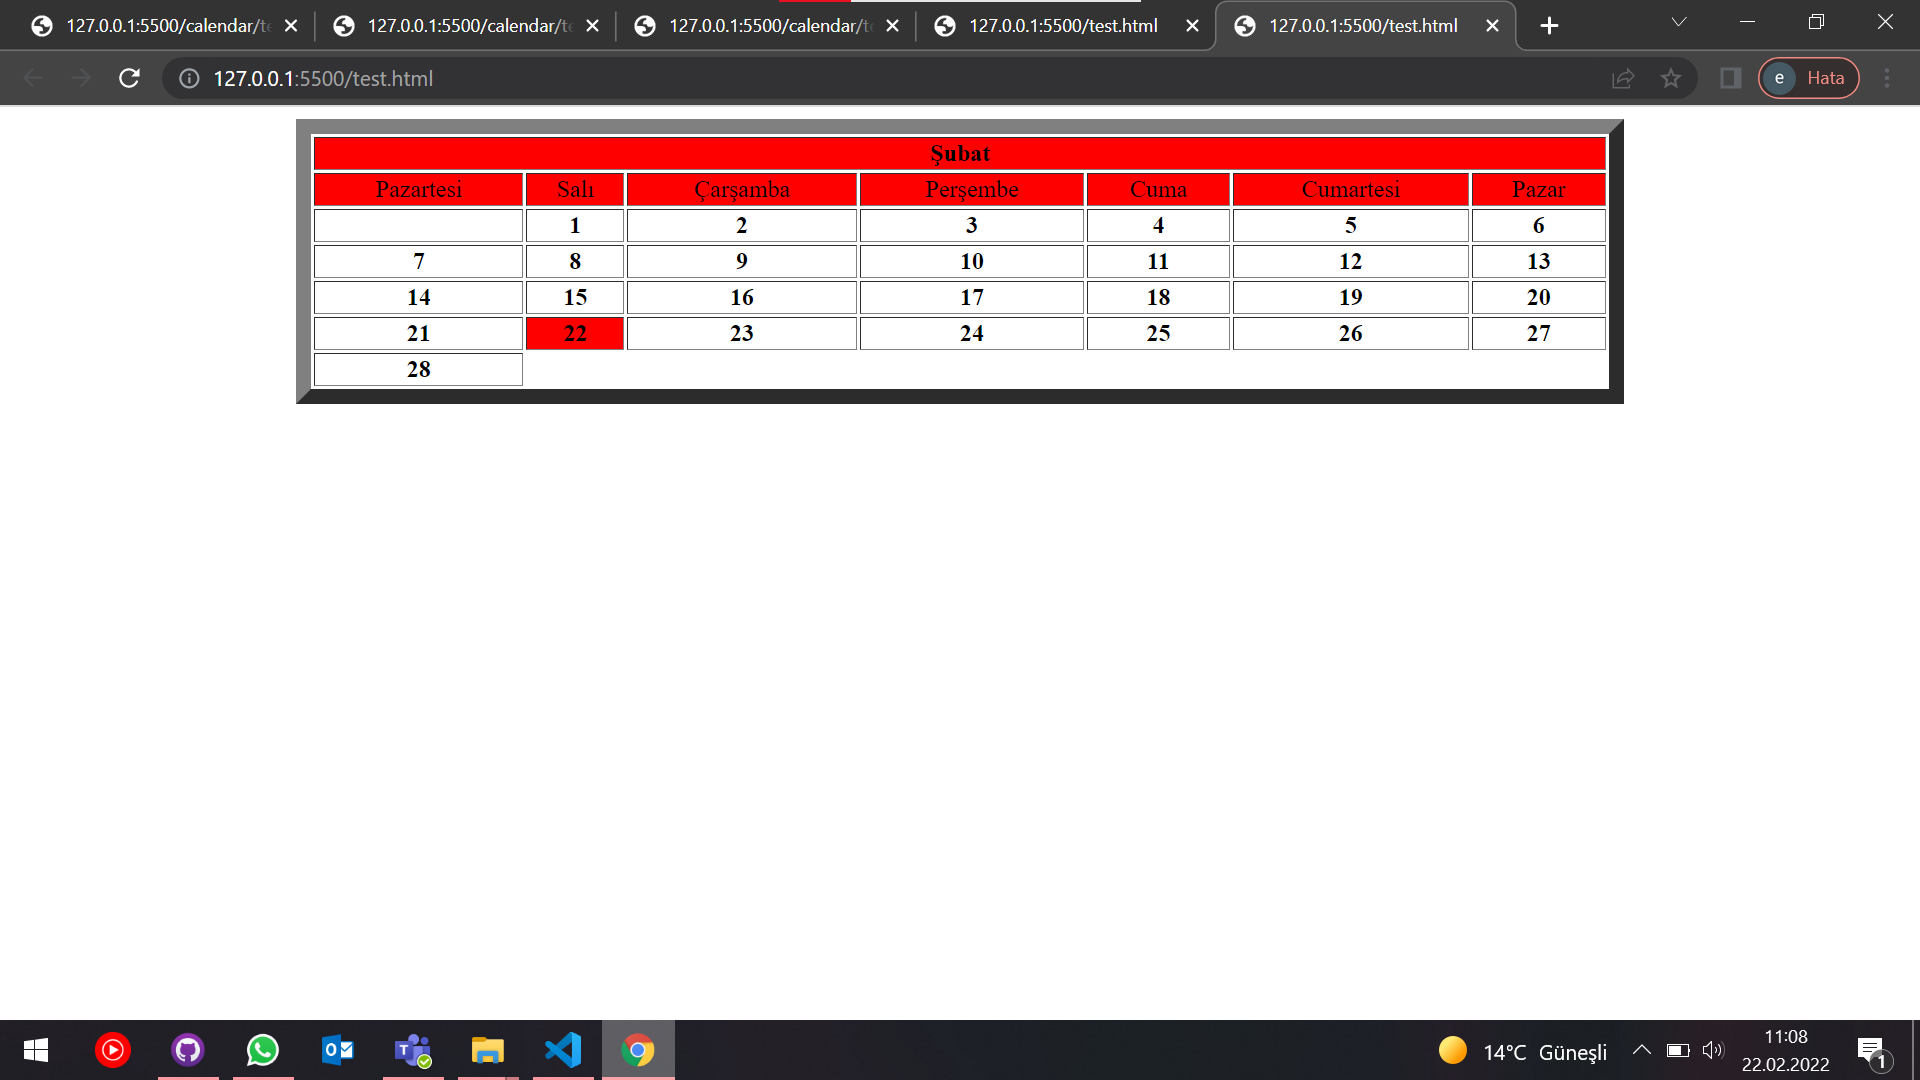
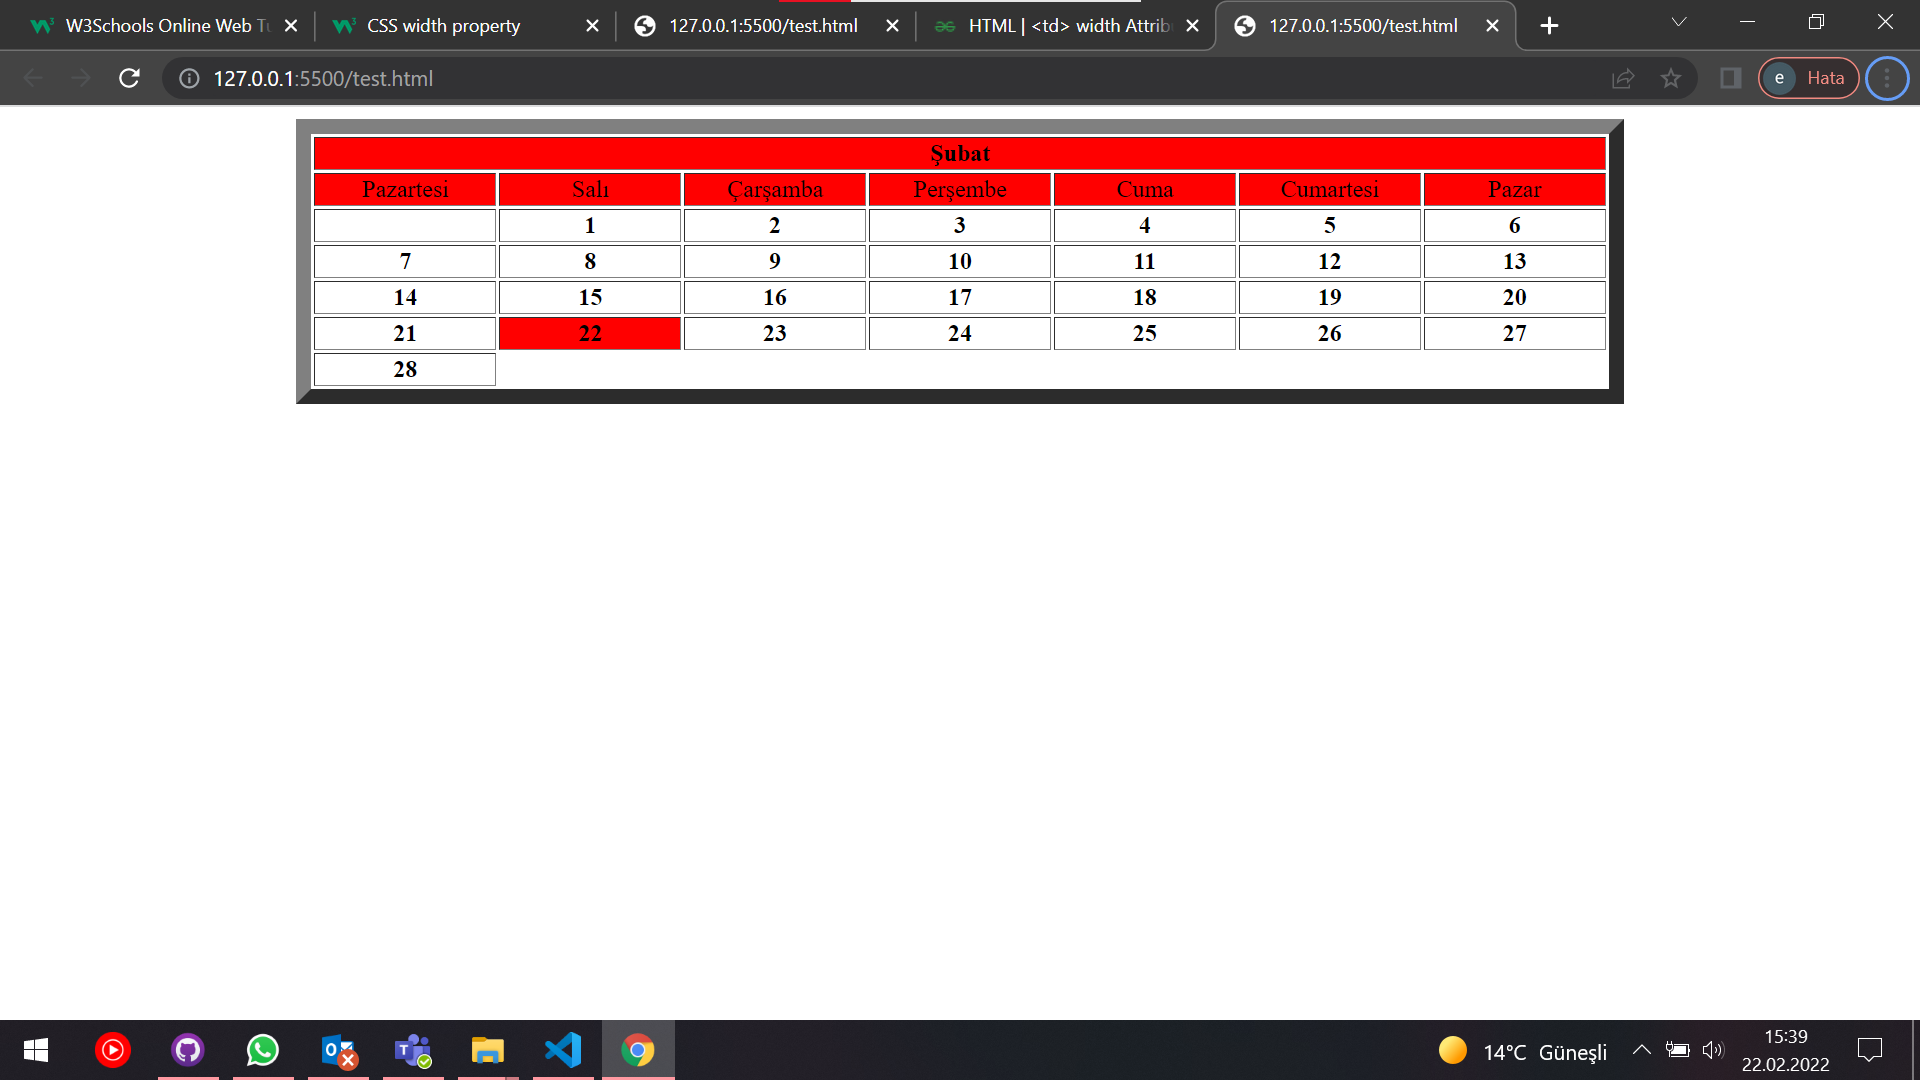
basicCalendar2

diff --git a/basicCalendar2.html b/basicCalendar2.html
@@ -34,7 +34,7 @@
     var calendarBody =
       "<table style=width:70% height:500 align=center border=10px solid black> <tr><th bgcolor= red colspan='7'>" + monthNames[month] + "</th></tr>";
     calendarBody +=
-      "<tr align=center bgcolor= #FF0000 > <td >Pazartesi</td> <td>Salı</td> <td>Çarşamba</td> <td>Perşembe</td> <td>Cuma</td> <td>Cumartesi</td> <td>Pazar</td> </tr>";
+      "<tr align=center bgcolor= #FF0000 > <td style=width:100px >Pazartesi</td> <td style=width:100px >Salı</td> <td style=width:100px>Çarşamba</td> <td style=width:100px>Perşembe</td> <td style=width:100px>Cuma</td> <td style=width:100px>Cumartesi</td> <td style=width:100px>Pazar</td></tr>";
 
     let free_days = firstDay.getDay();
 
